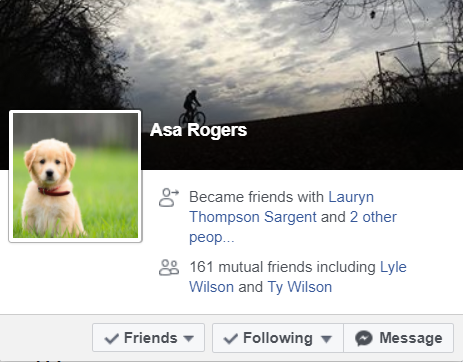
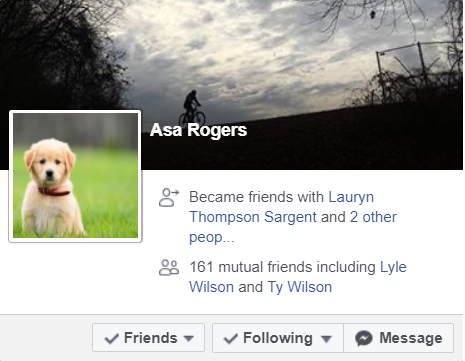
Example pic

diff --git a/index.html b/index.html
@@ -99,7 +99,7 @@
 									</header>
 									<div class="posts">
 										<article>
-											<a href="#" class="image"><img src="images/pic01.jpg" alt="" /></a>
+											<a href="#" class="image"><img src="AnimalBook Example.png" alt="" /></a>
 											<h3>Replace user profile pictures with cute animals!</h3>
 											<p>This allows you to keep your responses and interactions unbiased, and pleasantly reminds you to keep the online community a more inclusive space.</p>
 											<ul class="actions">
